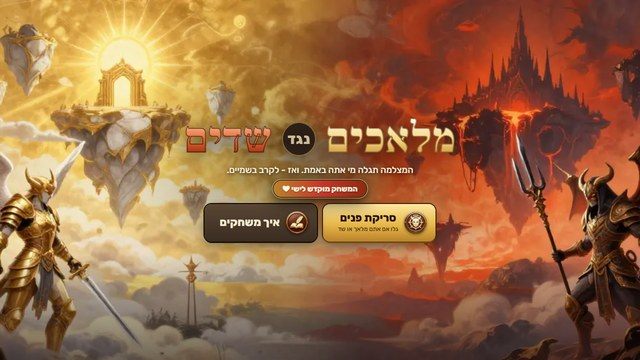
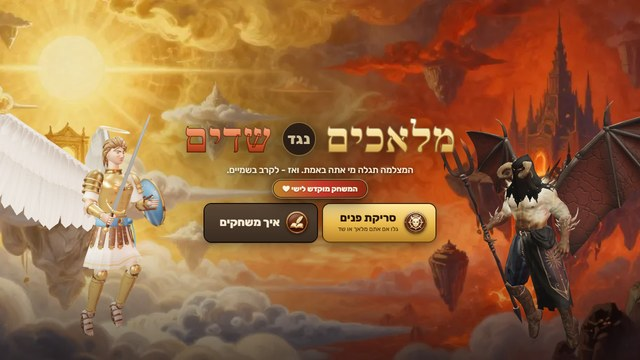
Publish angels-vs-demons

diff --git a/angels-vs-demons/js/game.js b/angels-vs-demons/js/game.js
@@ -1,13 +1,13 @@
 // מלאכים נגד שדים - main: boot, title, face scan + verdict, the battle (waves, upgrades, boss), HUD, input, camera.
 import * as THREE from 'three';
-import { Assets, COMMON, SIDE_MODELS } from './assets.js?v=5';
-import { makeRenderer, makeScene, buildArena, updateWorld, ARENA } from './world.js?v=5';
-import { FX, C } from './fx.js?v=5';
-import { Player, Enemy, Shot, Orb, makeModel, animName } from './actors.js?v=5';
-import { SIDES, WAVES, UPGRADES, CREDITS, FORMS, EVO_WAVES, EVO_XP, XP_GAIN } from './roster.js?v=5';
-import { EvoPlayer } from './evolve.js?v=5';
-import { FaceScan, paintVerdict, portrait } from './scan.js?v=5';
-import { Audio } from './audio.js?v=5';
+import { Assets, COMMON, SIDE_MODELS } from './assets.js?v=6';
+import { makeRenderer, makeScene, buildArena, updateWorld, ARENA } from './world.js?v=6';
+import { FX, C } from './fx.js?v=6';
+import { Player, Enemy, Shot, Orb, makeModel, animName } from './actors.js?v=6';
+import { SIDES, WAVES, UPGRADES, CREDITS, FORMS, EVO_WAVES, EVO_XP, XP_GAIN } from './roster.js?v=6';
+import { EvoPlayer } from './evolve.js?v=6';
+import { FaceScan, paintVerdict, portrait } from './scan.js?v=6';
+import { Audio } from './audio.js?v=6';
 
 const DEDICATION = 'המשחק מוקדש לישי'; // the follower who asked for the game
 const $ = id => document.getElementById(id);
@@ -85,6 +85,15 @@ class Game {
     this.canvas = $('c');
     this.renderer = makeRenderer(this.canvas);
     this.env = makeScene(this.renderer); this.scene = this.env.scene;
+    // the title has its own little scene: a painted sky behind the two real 3D heroes
+    this.titleScene = new THREE.Scene(); this.titleScene.environment = this.scene.environment; this.titleScene.environmentIntensity = .75;
+    this.titleBg = new THREE.TextureLoader().load('ui/bg_title3d.webp', () => this.fitTitleBg()); this.titleBg.colorSpace = THREE.SRGBColorSpace;
+    this.titleScene.background = this.titleBg;
+    { const T = this.titleScene;
+      T.add(new THREE.HemisphereLight(0xfff0dc, 0x5a2a1a, 1.2));
+      const key = new THREE.DirectionalLight(0xffe6b8, 2.6); key.position.set(-9, 9, 10); T.add(key);   // heaven sun from the left
+      const fire = new THREE.DirectionalLight(0xff6a2a, 1.8); fire.position.set(10, 1, 6); T.add(fire);  // lava glow from the right
+      const rim = new THREE.DirectionalLight(0xfff0dc, 2.4); rim.position.set(0, 7, -10); T.add(rim); }
     this.camera = new THREE.PerspectiveCamera(38, 2, .1, 900);
     this.camera.position.set(0, 6, 15.5);
     this.fx = new FX(this.scene, this.camera);
@@ -102,10 +111,16 @@ class Game {
     window.__game = this;
     this.boot();
   }
+  /** cover-fit the painted title sky to the screen shape */
+  fitTitleBg() {
+    const t = this.titleBg; if (!t || !t.image) return;
+    const ia = t.image.width / t.image.height, a = this.camera.aspect;
+    if (a > ia) { t.repeat.set(1, ia / a); t.offset.set(0, (1 - ia / a) / 2); } else { t.repeat.set(a / ia, 1); t.offset.set((1 - a / ia) / 2, 0); }
+  }
   resize() {
     const w = innerWidth || screen.width, h = innerHeight || screen.height;
     this.renderer.setSize(w, h, false);
-    this.camera.aspect = w / h; this.camera.updateProjectionMatrix();
+    this.camera.aspect = w / h; this.camera.updateProjectionMatrix(); this.fitTitleBg?.();
     this.fx.setScale(h * this.renderer.getPixelRatio() / (2 * Math.tan(THREE.MathUtils.degToRad(this.camera.fov) / 2)));
   }
   async unlockAudio() { if (this.audio.ready) { this.audio.resume(); return; } await this.audio.unlock(); this.music(this.state === 'title' ? 'music_title' : null); }
@@ -133,9 +148,9 @@ class Game {
     $('title').classList.remove('hidden');
     if (this.save.last) { $('bAgain').classList.remove('hidden'); $('lastSide').textContent = SIDES[this.save.last].name; } else $('bAgain').classList.add('hidden');
     // showcase: the two heroes face each other in the middle of the sky
-    for (const s of this.showcase) this.scene.remove(s.m.root); this.showcase = [];
-    const mk = (name, x, face) => { const m = makeModel(name, 1.5); m.root.position.set(x, 4.2, 2); m.turn.rotation.y = face * 1.15; this.scene.add(m.root); const a = animName(m.anim, 'idle'); if (a) m.anim.play(a); this.showcase.push({ m, x, face, ph: rnd(0, 6) }); };
-    // the title shows painted key art now; the 3D heroes stay in the battle
+    for (const s of this.showcase) this.titleScene.remove(s.m.root); this.showcase = [];
+    const mk = (name, x, face) => { const m = makeModel(name, 1.9); m.root.position.set(x, 4.0, 2); m.turn.rotation.y = face * 1.1; this.titleScene.add(m.root); const a = animName(m.anim, 'idle'); if (a) m.anim.play(a); this.showcase.push({ m, x, face, ph: rnd(0, 6) }); };
+    mk('angel_hero', -6.4, 1); mk('demon_hero', 6.4, -1);
     this.camGoal = { x: 0, y: 5, z: 12, lx: 0, ly: 4.8, fov: 38 };
     if (first) Object.assign(this.cam, this.camGoal);
     this.env.skyU.uBias.value = 0;
@@ -151,7 +166,6 @@ class Game {
     click('scanBack', () => { this.scan?.stop(); this.toTitle(); });
     click('bSnap', () => this.snap());
     click('bNoCam', () => this.fingerScan());
-    click('bRescan', () => this.openScan());
     click('bFight', () => this.startBattle('army'));
     click('bEvo', () => this.startBattle('evo'));
     click('bPause', () => this.pause(true));
@@ -368,7 +382,7 @@ class Game {
     // make sure the enemy side is loaded
     const need = [...SIDE_MODELS[this.foe.key], ...SIDE_MODELS[this.side.key]].filter(n => !Assets.has(n) && !Assets.missing.includes(n));
     if (need.length) { $('title').classList.remove('hidden'); $('tbtns').classList.add('hidden'); $('loadwrap').classList.remove('hidden'); $('logo').classList.add('hidden'); $('loadtxt').textContent = `מזמנים את הצבאות…`; $('fade').classList.remove('on'); await Assets.load(need, f => { $('loadfill').style.width = (f * 100).toFixed(0) + '%'; }); $('title').classList.add('hidden'); $('tbtns').classList.remove('hidden'); $('loadwrap').classList.add('hidden'); $('logo').classList.remove('hidden'); }
-    for (const s of this.showcase) this.scene.remove(s.m.root); this.showcase = [];
+    for (const s of this.showcase) this.titleScene.remove(s.m.root); this.showcase = [];
     this.clearBattle();
     this.player = this.mode === 'evo' ? new EvoPlayer(this, this.side, 0) : new Player(this, this.side);
     this.wave = 0; this.kills = 0; this.score = 0; this.time0 = this.t; this.lives = 0;
@@ -662,7 +676,7 @@ class Game {
       <h2>${this.side.names} ניצחו!</h2>${DEDICATION ? `<div class="dedicEnd">${DEDICATION} ❤</div>` : ''}
       <p>${this.mode === 'evo' ? `התחלת כ${FORMS[this.side.key][0].name} והגעת עד ${this.player.form.name}!` : (this.side.key === 'angel' ? 'מלך השדים נפל והשמיים בטוחים. כל הכבוד, מלאך!' : 'המלאך הגדול הובס והאש שולטת בשמיים. כל הכבוד, שד!')}</p>
       <div class="stats"><div><b>${fmtTime(sec)}</b><span>${newBest ? 'שיא חדש!' : 'זמן'}</span></div><div><b>${this.kills}</b><span>אויבים</span></div><div><b>${this.allies.filter(a => !a.dead).length}</b><span>לוחמים שרדו</span></div><div><b>${this.save.wins[key]}</b><span>ניצחונות כ${this.side.name}${this.mode === 'evo' ? ' (התפתחות)' : ''}</span></div></div>
-      <div class="row"><button class="big side" id="eAgain"><img class="bi" src="ui/ic/ui_again.webp" alt="" draggable="false"><span class="bt">עוד קרב</span></button><button class="big ${this.side.key === 'angel' ? 'ember' : ''}" id="eOther"><img class="bi" src="ui/ic/ui_fight.webp" alt="" draggable="false"><span class="bt">לשחק כ${other.name}</span></button><button class="big sec" id="eScan"><img class="bi" src="ui/ic/ui_rescan.webp" alt="" draggable="false"><span class="bt">סריקה חדשה</span></button></div>`);
+      <div class="row"><button class="big side" id="eAgain"><img class="bi" src="ui/ic/ui_again.webp" alt="" draggable="false"><span class="bt">עוד קרב</span></button><button class="big ${this.side.key === 'angel' ? 'ember' : ''}" id="eOther"><img class="bi" src="ui/ic/ui_fight.webp" alt="" draggable="false"><span class="bt">לשחק כ${other.name}</span></button><button class="big sec" id="eScan"><img class="bi" src="ui/ic/ui_rescan.webp" alt="" draggable="false"><span class="bt">סריקה חדשה</span></button><button class="big sec" id="eMenu"><img class="bi" src="ui/ic/ui_menu.webp" alt="" draggable="false"><span class="bt">לתפריט</span></button></div>`);
     this.endButtons(o);
   }
   lose() {
@@ -772,7 +786,7 @@ class Game {
     }
     // title showcase hover
     const hw = Math.tan(THREE.MathUtils.degToRad(19)) * 10 * this.camera.aspect; // half width of the view at the heroes' depth
-    for (const s of this.showcase) { s.m.anim.update(raw); s.m.root.position.x = -s.face * Math.min(6.4, hw * .72); s.m.root.position.y = 4.2 + Math.sin(this.t * 1.6 + s.ph) * .15; }
+    for (const s of this.showcase) { s.m.anim.update(raw); s.m.root.position.x = -s.face * Math.min(6.4, hw * .72); s.m.root.position.y = 4.0 + Math.sin(this.t * 1.6 + s.ph) * .15; s.m.turn.rotation.z = Math.sin(this.t * .9 + s.ph) * .04; }
     this.fx.update(dt);
     updateWorld(this.env, raw, this.cam.x);
     // camera smoothing + shake
@@ -783,7 +797,8 @@ class Game {
     this.camera.position.set(this.cam.x + rnd(-s, s), this.cam.y + rnd(-s, s), this.cam.z);
     this.camera.lookAt(this.cam.lx, this.cam.ly, 0);
     if (this.audio.ready) this.audio.setListener({ x: this.cam.x, y: this.cam.y, z: 8 }, { x: 0, y: 0, z: -1 });
-    if (!['title', 'scan', 'verdict', 'boot'].includes(this.state)) this.renderer.render(this.scene, this.camera); // menus are painted full-screen
+    if (this.state === 'title' || this.state === 'boot') this.renderer.render(this.titleScene, this.camera); // painted sky + the 3D heroes
+    else if (this.state !== 'scan' && this.state !== 'verdict') this.renderer.render(this.scene, this.camera); // scan / result screens are painted full-screen
   }
 }
 

diff --git a/angels-vs-demons/index.html b/angels-vs-demons/index.html
@@ -66,9 +66,9 @@ body.demon .big.side{color:#fff1e2; background:linear-gradient(180deg,#f08a52,#d
 h1,h2,h3{font-family:var(--display); margin:0; font-weight:900}
 
 /* ---------- title ---------- */
-#title{position:fixed; inset:0; z-index:20; display:flex; flex-direction:column; align-items:center; justify-content:center; gap:14px; background-color:#1b1420;
+#title{position:fixed; inset:0; z-index:20; display:flex; flex-direction:column; align-items:center; justify-content:center; gap:14px;
   padding:calc(12px + var(--st)) max(16px, var(--sr)) calc(12px + var(--sb)) max(16px, var(--sl));
-  background-image:radial-gradient(ellipse 46% 60% at 50% 46%, rgba(10,6,8,.38), rgba(10,6,8,0) 70%), linear-gradient(180deg, rgba(10,6,8,0) 70%, rgba(10,6,8,.55)), url(ui/bg_title.webp);
+  background-image:radial-gradient(ellipse 46% 60% at 50% 46%, rgba(10,6,8,.38), rgba(10,6,8,0) 70%), linear-gradient(180deg, rgba(10,6,8,0) 70%, rgba(10,6,8,.55));
   background-size:cover; background-position:center}
 #logo{text-align:center; filter:drop-shadow(0 6px 18px rgba(0,0,0,.6))}
 #logo h1{font-size:clamp(40px,8.4vw,86px); line-height:.95; letter-spacing:.5px; display:flex; align-items:center; gap:.25em; justify-content:center}
@@ -373,9 +373,6 @@ body.angel #bossBar .meter i{background:linear-gradient(180deg,#f08a52,#8e2a10)}
       <button class="modeBtn" id="bFight"><img src="ui/mode_army.webp" alt=""><b>מצב צבא</b><small id="bFightS"></small></button>
       <button class="modeBtn" id="bEvo"><img id="bEvoImg" src="ui/mode_evo.webp" alt=""><b>מצב התפתחות</b><small id="bEvoS"></small></button>
     </div>
-    <div class="row" style="justify-content:flex-start; margin-top:2px">
-      <button class="big sec" id="bRescan"><img class="bi" src="ui/ic/ui_rescan.webp" alt="" draggable="false"><span class="bt">סריקה חוזרת</span></button>
-    </div>
     <div id="vNote">זה משחק: הסורק קורא אור, צבעים וצורה מהתמונה, בשביל הכיף.</div>
   </div>
 </div>
@@ -415,6 +412,6 @@ body.angel #bossBar .meter i{background:linear-gradient(180deg,#f08a52,#8e2a10)}
   "three/addons/": "https://cdn.jsdelivr.net/npm/three@0.170.0/examples/jsm/"
 } }
 </script>
-<script type="module" src="js/game.js?v=5"></script>
+<script type="module" src="js/game.js?v=6"></script>
 </body>
 </html>

diff --git a/angels-vs-demons/js/actors.js b/angels-vs-demons/js/actors.js
@@ -1,10 +1,10 @@
 // Actors: the player (angel or demon hero), the 6 enemy roles of each side with their own AI, projectiles, heal orbs.
 // Everything lives on the 2D plane z = 0; models turn ~60° toward the way they face so wings and weapons read.
 import * as THREE from 'three';
-import { Assets, Anim, node, ownMaterials } from './assets.js?v=5';
-import { HEIGHT, ROLE_STATS } from './roster.js?v=5';
-import { ARENA } from './world.js?v=5';
-import { C } from './fx.js?v=5';
+import { Assets, Anim, node, ownMaterials } from './assets.js?v=6';
+import { HEIGHT, ROLE_STATS } from './roster.js?v=6';
+import { ARENA } from './world.js?v=6';
+import { C } from './fx.js?v=6';
 
 const clamp = (v, a, b) => Math.max(a, Math.min(b, v));
 const rnd = (a, b) => a + Math.random() * (b - a);

diff --git a/angels-vs-demons/js/evolve.js b/angels-vs-demons/js/evolve.js
@@ -1,9 +1,9 @@
 // Evolution mode hero: starts as the smallest of its side and evolves through 7 forms (roster.js FORMS).
 // Every form has its own attack / shoot / special (the MOVES below), played with that model's own animations.
-import { Player, makeModel } from './actors.js?v=5';
-import { FORMS, EVO_XP } from './roster.js?v=5';
-import { ARENA } from './world.js?v=5';
-import { C } from './fx.js?v=5';
+import { Player, makeModel } from './actors.js?v=6';
+import { FORMS, EVO_XP } from './roster.js?v=6';
+import { ARENA } from './world.js?v=6';
+import { C } from './fx.js?v=6';
 
 const rnd = (a, b) => a + Math.random() * (b - a);
 const clamp = (v, a, b) => Math.max(a, Math.min(b, v));

diff --git a/angels-vs-demons/js/world.js b/angels-vs-demons/js/world.js
@@ -2,7 +2,7 @@
 // painted cloud layers, the sea of clouds below, floating Blender islands at several depths for parallax.
 import * as THREE from 'three';
 import { RoomEnvironment } from 'three/addons/environments/RoomEnvironment.js';
-import { Assets } from './assets.js?v=5';
+import { Assets } from './assets.js?v=6';
 
 const rnd = (a, b) => a + Math.random() * (b - a);
 export const ARENA = { x0: -12.5, x1: 12.5, y0: 1.4, y1: 8.8 }; // y1 stays under the top HUD
